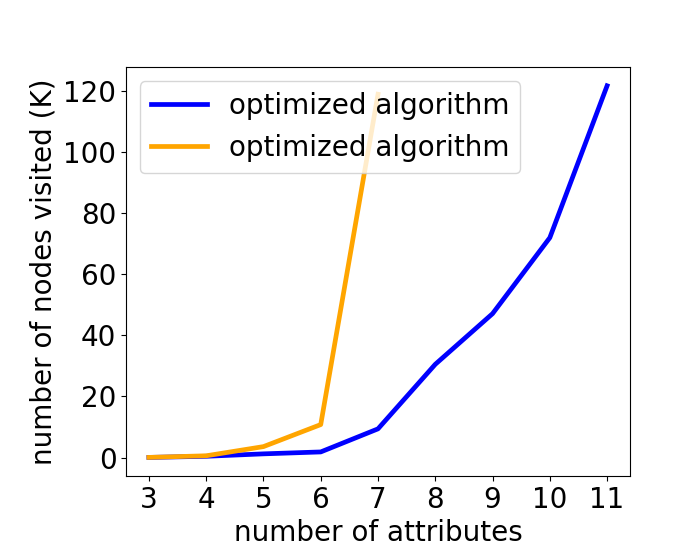
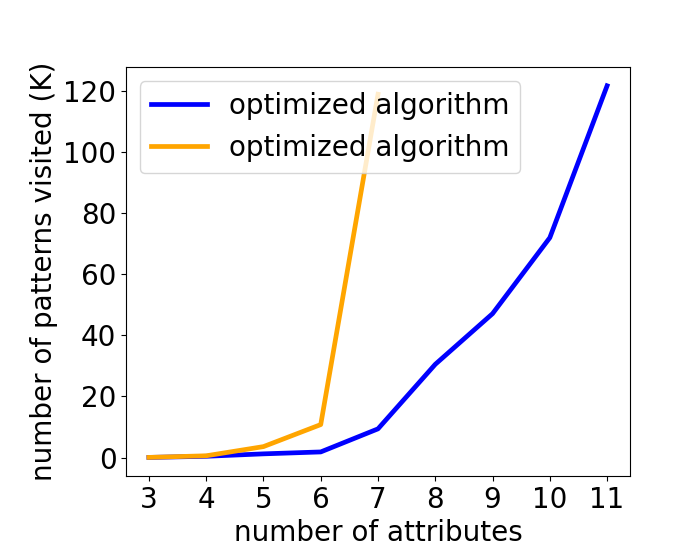
general, compas, num att

Changed region(s): [[0.03, 0.1214, 0.09, 0.85]]

diff --git a/Coding/Experiments/General_FP/CompasData/num_attributes_0_20210521.py b/Coding/Experiments/General_FP/CompasData/num_attributes_0_20210521.py
@@ -8,7 +8,7 @@ x axis: the number of attributes, from 2 to 13.
 
 other parameters:
 CleanAdult2.csv
-threshold of cardinality Thc = 30
+size threshold Thc = 30
 threshold of minority group accuracy: overall acc - 20
 """
 
@@ -225,7 +225,7 @@ fig, ax = plt.subplots()
 plt.plot(x_new, num_calculation1, label="optimized algorithm", color='blue', linewidth = 3.4)
 plt.plot(x_naive, num_calculation2, label="optimized algorithm", color='orange', linewidth = 3.4)
 plt.xlabel('number of attributes')
-plt.ylabel('number of nodes visited (K)')
+plt.ylabel('number of patterns visited (K)')
 ax.yaxis.set_major_formatter(FuncFormatter(thousands_formatter))
 
 

diff --git a/Coding/Experiments/General_FP/CompasData/num_attributes_1_20210629.py b/Coding/Experiments/General_FP/CompasData/num_attributes_1_20210629.py
@@ -8,7 +8,7 @@ x axis: the number of attributes, from 2 to 13.
 
 other parameters:
 CleanAdult2.csv
-threshold of cardinality Thc = 30
+size threshold Thc = 30
 threshold of minority group accuracy: overall acc - 20
 """
 
@@ -248,7 +248,7 @@ fig, ax = plt.subplots()
 plt.plot(x_new, num_calculation1, label="optimized algorithm", color='blue', linewidth = 3.4)
 plt.plot(x_naive, num_calculation2, label="optimized algorithm", color='orange', linewidth = 3.4)
 plt.xlabel('number of attributes')
-plt.ylabel('number of nodes visited (K)')
+plt.ylabel('number of patterns visited (K)')
 ax.yaxis.set_major_formatter(FuncFormatter(thousands_formatter))
 
 
